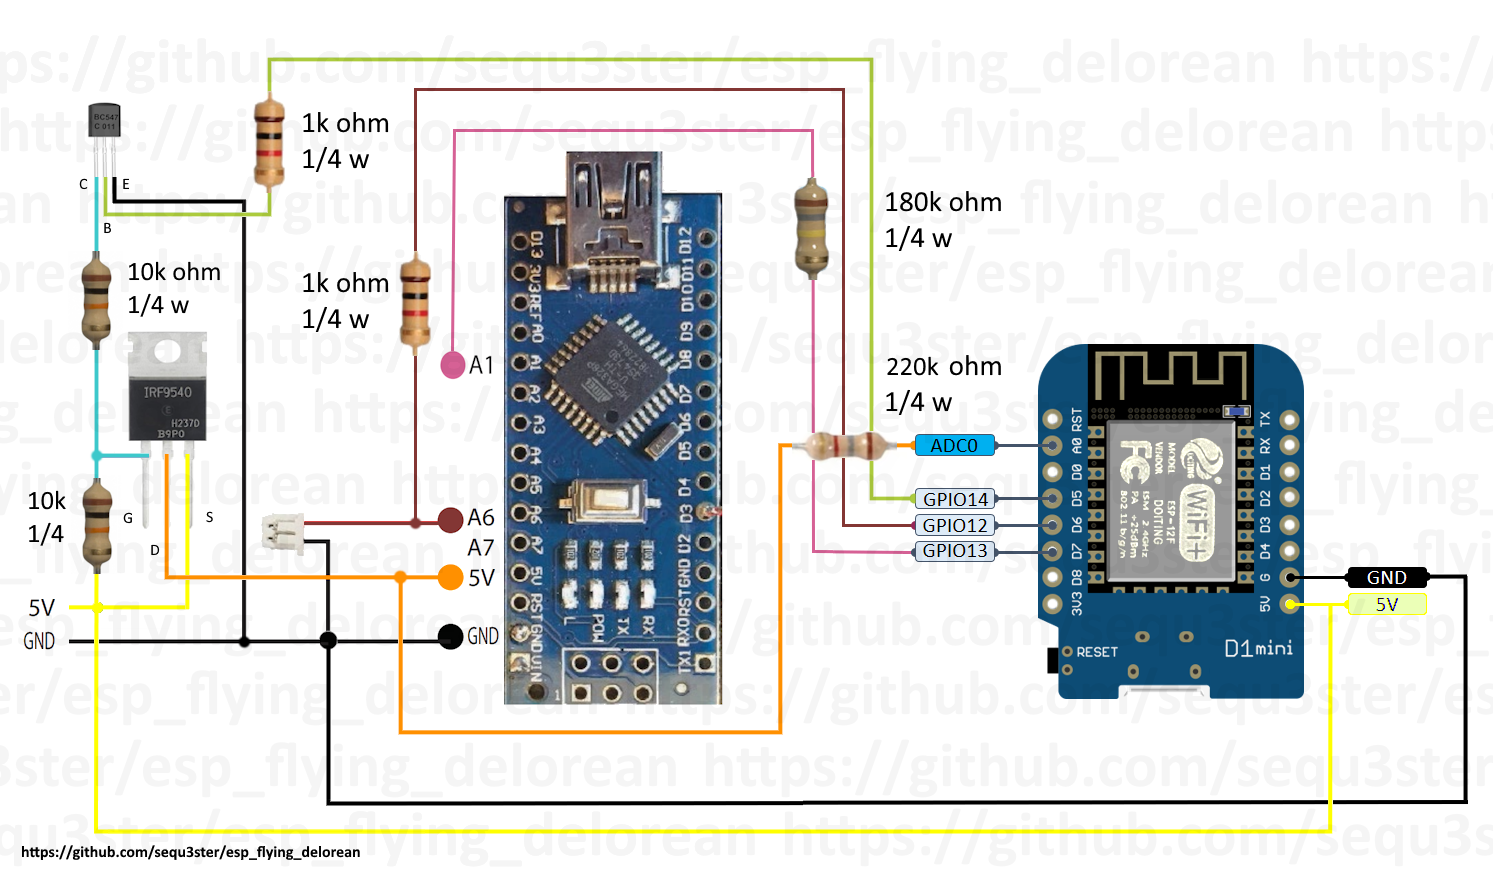
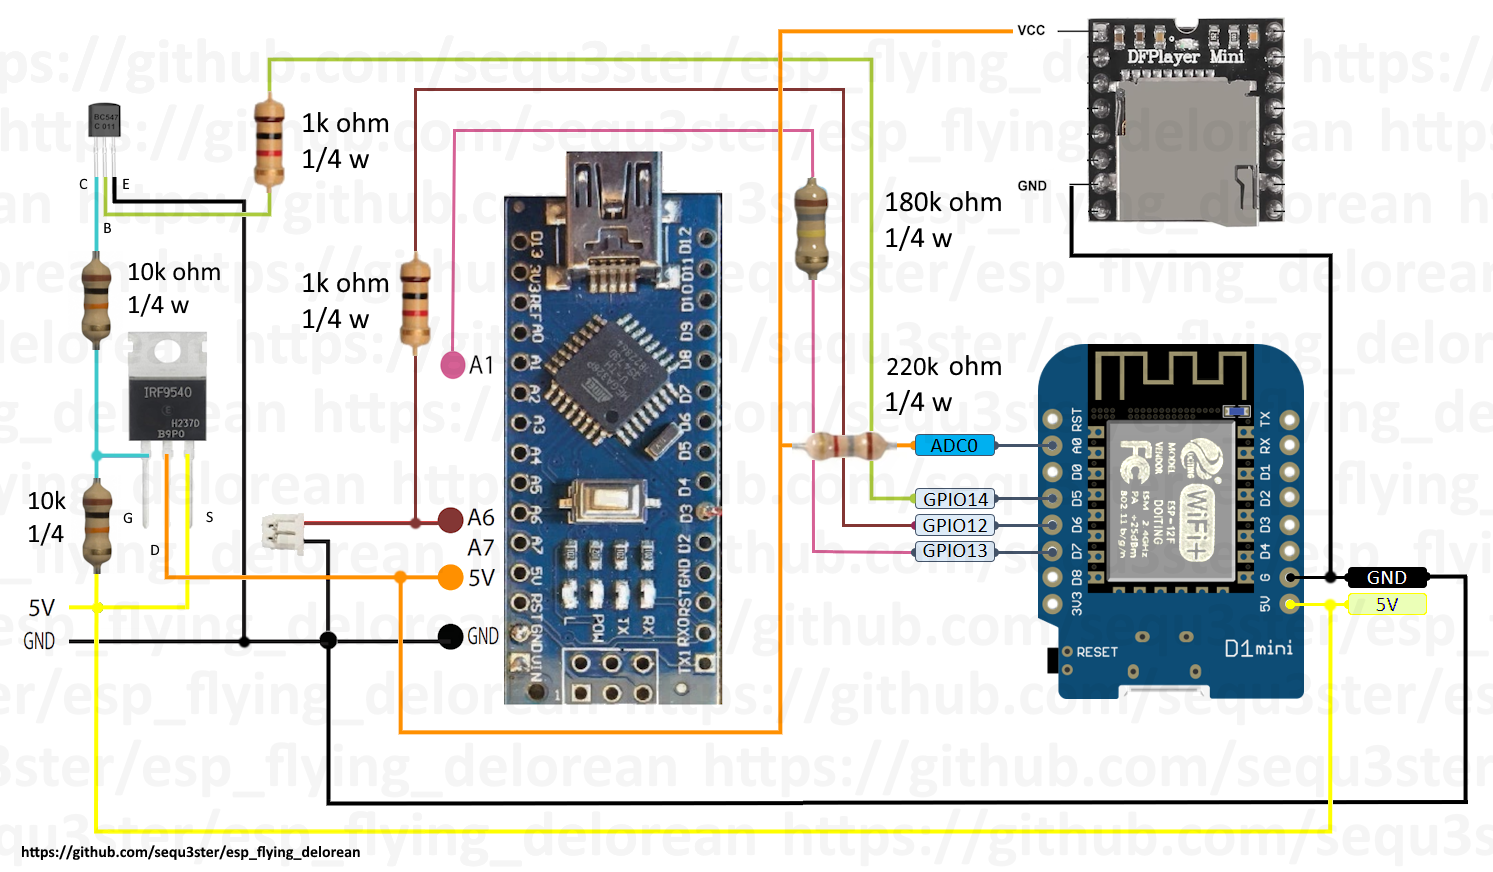
DPlayer added to circuit

Changed region(s): [[0.5238, 0.0, 0.8935, 0.6502]]

diff --git a/circuit/README.md b/circuit/README.md
@@ -4,7 +4,8 @@
 - <img src="/images/D1MiniNodeMCU.png" width="100"><br>[ES8266 D1 mini (Clone)](https://de.aliexpress.com/item/1005006890254253.html)
 - 2x 1k ohm 1/4 watt Resistor
 - 2x 10k ohm 1/4 watt Resistor
-- 2x 100k ~ 180k ohm 1/4 watt Resistor
+- 1x 180k ohm 1/4 watt Resistor
+- 1x 220k ohm 1/4 watt Resistor
 - 1x BC547C Transistor
 - 1x IRLZ44N Mosfet
 <br><br>
